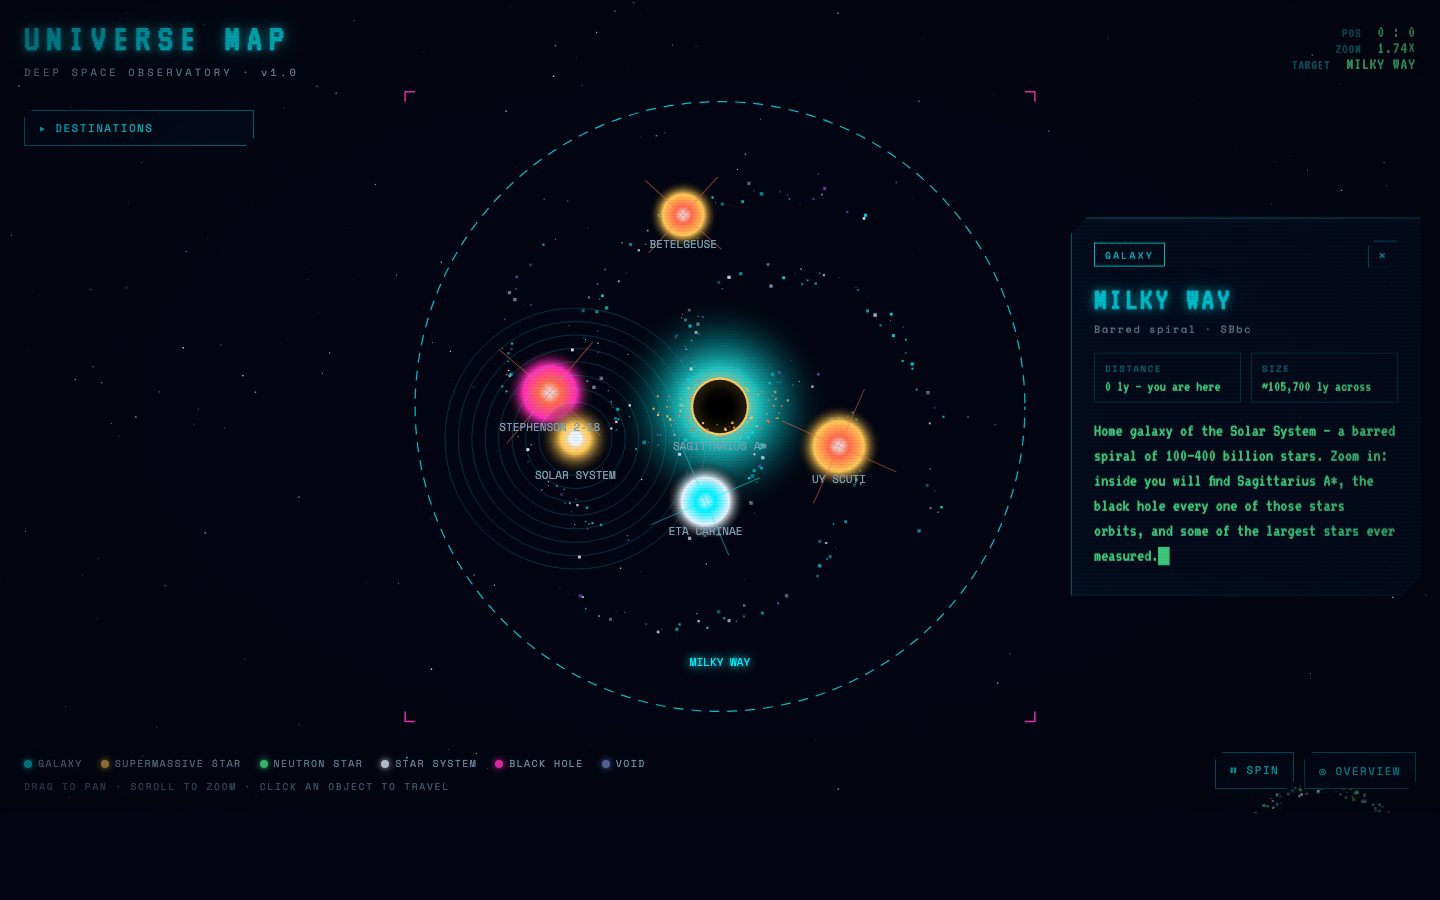
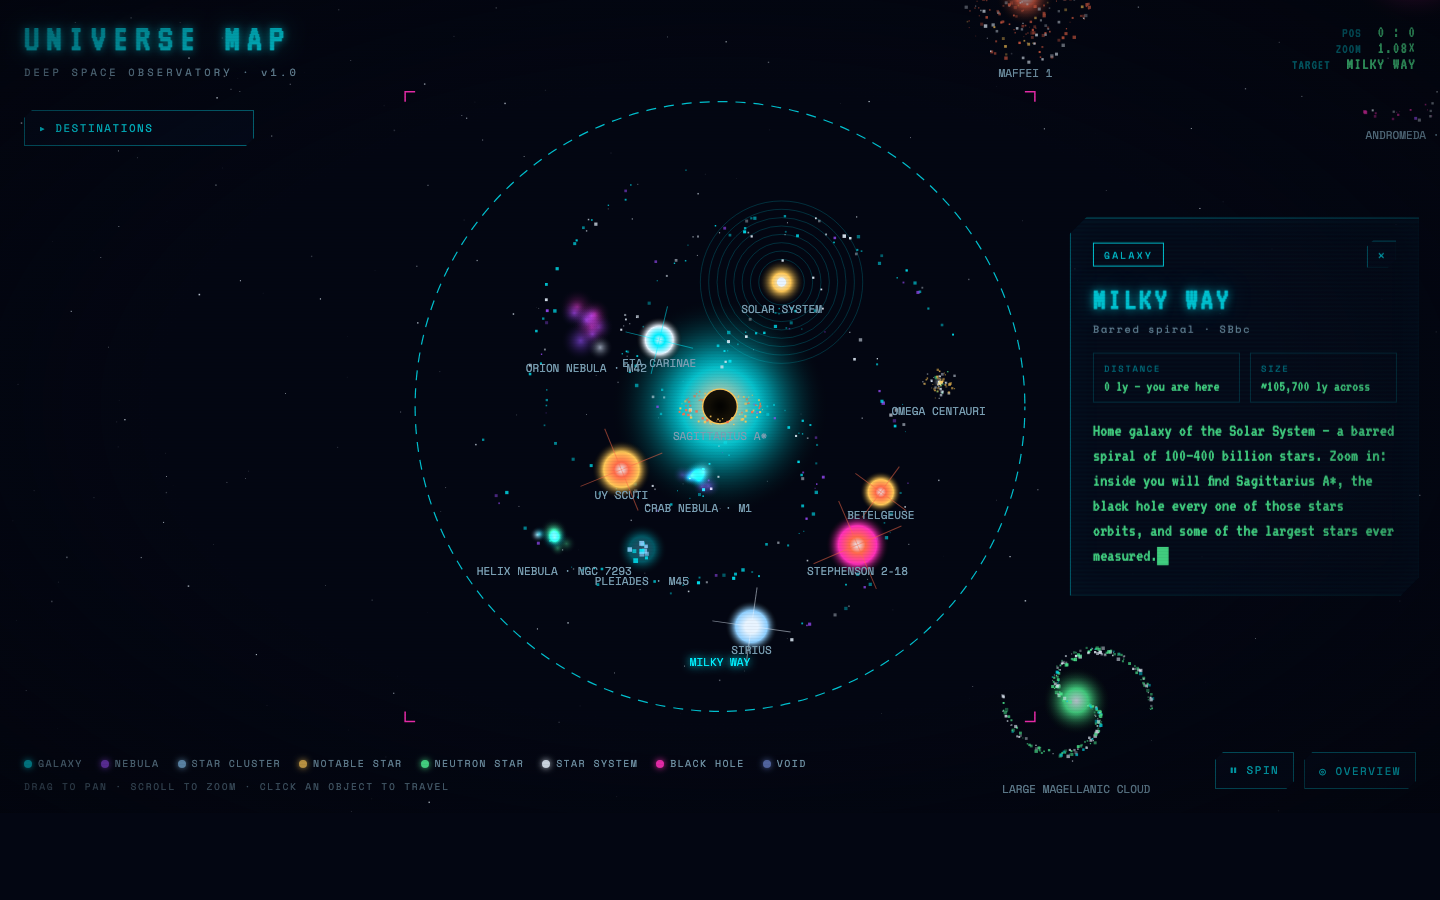
Expand the Milky Way and add Sirius
The Milky Way's interior had grown to 11 objects packed into radius
140, with clearances as tight as 9.5 units between neighbors
(Eta Carinae vs Orion Nebula) and two objects (Pleiades, Omega
Centauri) actually clipping the Solar System's outer orbit ring.

- Galaxy radius: 140 -> 225
- Every interior object's local.r scaled by 1.5x (angles unchanged,
  preserving relative layout), then Omega Centauri and Helix Nebula
  nudged in slightly to stay contained within the new radius
- Result: tightest clearance anywhere is now 30.3 units, solar-ring
  clearance is 37+ units everywhere, and the galaxy still sits 131+
  units clear of its nearest neighbor (the LMC) — no other galaxy
  needed to move

Also:
- Added Sirius — the brightest star in Earth's night sky — as a new
  interior object, with its white dwarf companion (Sirius B)
  mentioned in its description rather than modeled separately
- Renamed the generic "SUPERMASSIVE STAR" badge/legend label to
  "NOTABLE STAR": Sirius is bright only because it's close, not
  because it's massive, so the old label would have misdescribed it
  (and every other star sharing that badge)
- Pleiades: reordered its palette so ice-blue/cyan make up ~86% of
  its stars instead of ~55%, and strengthened its reflection-nebula
  haze (bigger, two-stop gradient, higher alpha) so it actually reads
  as blue like the real cluster, not washed out white

Verified in-browser: 54/54 objects valid (unique ids, zero orphan
[…]

diff --git a/js/data.js b/js/data.js
@@ -21,7 +21,7 @@ const galaxiesData = {
     {
       id: 'milky-way', name: 'MILKY WAY', type: 'galaxy',
       class: 'Barred spiral · SBbc',
-      x: 0, y: 0, radius: 140, arms: 4,
+      x: 0, y: 0, radius: 225, arms: 4,
       palette: ['--neon-cyan', '--star-white', '--neon-purple'],
       spinSpeed: 0.00010,
       distance: '0 ly — you are here',
@@ -273,9 +273,9 @@ const galaxiesData = {
     {
       id: 'pleiades', name: 'PLEIADES · M45', type: 'cluster',
       class: 'Open cluster · "Seven Sisters"',
-      parent: 'milky-way', local: { r: 100, a: 0.6 }, radius: 18,
+      parent: 'milky-way', local: { r: 150, a: 0.6 }, radius: 18,
       nebulosity: true,
-      palette: ['--ice-blue', '--star-white', '--neon-cyan'],
+      palette: ['--ice-blue', '--neon-cyan', '--star-white'],
       spinSpeed: 0.0002,
       distance: '~444 ly',
       size: '~8 ly across (core)',
@@ -284,7 +284,7 @@ const galaxiesData = {
     {
       id: 'omega-centauri', name: 'OMEGA CENTAURI', type: 'cluster',
       class: 'Globular cluster',
-      parent: 'milky-way', local: { r: 135, a: 4.7 }, radius: 16,
+      parent: 'milky-way', local: { r: 203, a: 4.7 }, radius: 16,
       globular: true,
       palette: ['--golden-yellow', '--star-white', '--terminal-green'],
       spinSpeed: 0.0001,
@@ -297,7 +297,7 @@ const galaxiesData = {
     {
       id: 'uy-scuti', name: 'UY SCUTI', type: 'star',
       class: 'Red supergiant · M4Ia',
-      parent: 'milky-way', local: { r: 72, a: 1.1 }, radius: 12,
+      parent: 'milky-way', local: { r: 108, a: 1.1 }, radius: 12,
       palette: ['--star-red', '--golden-yellow'],
       spinSpeed: 0.0004,
       distance: '~5,900 ly',
@@ -307,7 +307,7 @@ const galaxiesData = {
     {
       id: 'stephenson-2-18', name: 'STEPHENSON 2-18', type: 'star',
       class: 'Red supergiant · M6',
-      parent: 'milky-way', local: { r: 120, a: 5.6 }, radius: 13,
+      parent: 'milky-way', local: { r: 180, a: 5.6 }, radius: 13,
       palette: ['--star-red', '--cyber-pink'],
       spinSpeed: 0.0003,
       distance: '~18,900 ly',
@@ -317,7 +317,7 @@ const galaxiesData = {
     {
       id: 'betelgeuse', name: 'BETELGEUSE', type: 'star',
       class: 'Red supergiant · M1-M2Ia',
-      parent: 'milky-way', local: { r: 112, a: 5.3 }, radius: 10,
+      parent: 'milky-way', local: { r: 168, a: 5.3 }, radius: 10,
       palette: ['--star-red', '--golden-yellow'],
       spinSpeed: 0.0005,
       distance: '~550 ly',
@@ -327,7 +327,7 @@ const galaxiesData = {
     {
       id: 'eta-carinae', name: 'ETA CARINAE', type: 'star',
       class: 'Luminous blue variable binary',
-      parent: 'milky-way', local: { r: 55, a: 2.5 }, radius: 10,
+      parent: 'milky-way', local: { r: 83, a: 2.5 }, radius: 10,
       palette: ['--neon-cyan', '--star-white'],
       spinSpeed: 0.0006,
       distance: '~7,500 ly',
@@ -343,6 +343,16 @@ const galaxiesData = {
       distance: '~163,000 ly (LMC)',
       size: '~196 solar masses',
       desc: 'The most massive and one of the most luminous stars known — nearly 5 million times brighter than the Sun. It burns so fiercely that it sheds an Earth’s mass of material every month in a ferocious stellar wind.'
+    },
+    {
+      id: 'sirius', name: 'SIRIUS', type: 'star',
+      class: 'A-type main sequence + white dwarf binary',
+      parent: 'milky-way', local: { r: 205, a: 6.24 }, radius: 11,
+      palette: ['--star-white', '--ice-blue'],
+      spinSpeed: 0.0007,
+      distance: '~8.6 ly',
+      size: '~1.7 solar masses (Sirius A)',
+      desc: 'The brightest star in Earth\'s night sky — not because it\'s especially powerful, but because it\'s one of our nearest neighbors. It has a hidden companion, Sirius B: the first white dwarf ever discovered, a star\'s entire mass crushed into a sphere the size of Earth, the two locked in a 50-year orbital dance.'
     },
 
     /* ══ NEUTRON STARS (city-sized cores left behind by supernovae) ══ */
@@ -381,7 +391,7 @@ const galaxiesData = {
     {
       id: 'solar-system', name: 'SOLAR SYSTEM', type: 'system',
       class: 'Star system · G2V + 8 planets',
-      parent: 'milky-way', local: { r: 85, a: 3.7 }, radius: 14,
+      parent: 'milky-way', local: { r: 128, a: 3.7 }, radius: 14,
       palette: ['--golden-yellow', '--star-white', '--neon-cyan'],
       spinSpeed: 0.0003,
       distance: '0 ly — home',
@@ -393,7 +403,7 @@ const galaxiesData = {
     {
       id: 'orion-nebula', name: 'ORION NEBULA · M42', type: 'nebula',
       class: 'Diffuse emission nebula · stellar nursery',
-      parent: 'milky-way', local: { r: 95, a: 2.2 }, radius: 26,
+      parent: 'milky-way', local: { r: 143, a: 2.2 }, radius: 26,
       palette: ['--cyber-pink', '--neon-purple', '--star-white'],
       spinSpeed: 0.00006,
       distance: '~1,344 ly',
@@ -403,7 +413,7 @@ const galaxiesData = {
     {
       id: 'crab-nebula', name: 'CRAB NEBULA · M1', type: 'nebula',
       class: 'Supernova remnant',
-      parent: 'milky-way', local: { r: 45, a: 0.4 }, radius: 18,
+      parent: 'milky-way', local: { r: 68, a: 0.4 }, radius: 18,
       palette: ['--neon-cyan', '--neon-purple', '--star-white'],
       spinSpeed: 0.00007,
       distance: '~6,500 ly',
@@ -413,7 +423,7 @@ const galaxiesData = {
     {
       id: 'helix-nebula', name: 'HELIX NEBULA · NGC 7293', type: 'nebula',
       class: 'Planetary nebula · "Eye of God"',
-      parent: 'milky-way', local: { r: 130, a: 1.0 }, radius: 20,
+      parent: 'milky-way', local: { r: 195, a: 1.0 }, radius: 20,
       palette: ['--terminal-green', '--neon-cyan', '--star-white'],
       spinSpeed: 0.00005,
       distance: '~650 ly',

diff --git a/js/main.js b/js/main.js
@@ -338,13 +338,15 @@ function drawCluster(o, t) {
   const rot = o.angle + mapRotation;
 
   if (data.nebulosity) {
-    const haze = ctx.createRadialGradient(sc.x, sc.y, 0, sc.x, sc.y, Math.max(data.radius * z, 6));
+    const hazeR = Math.max(data.radius * 1.3 * z, 6);
+    const haze = ctx.createRadialGradient(sc.x, sc.y, 0, sc.x, sc.y, hazeR);
     haze.addColorStop(0, colors[0]);
+    haze.addColorStop(0.5, colors[1] || colors[0]);
     haze.addColorStop(1, 'rgba(0,0,0,0)');
-    ctx.globalAlpha = 0.22 * va;
+    ctx.globalAlpha = 0.34 * va;
     ctx.fillStyle = haze;
     ctx.beginPath();
-    ctx.arc(sc.x, sc.y, Math.max(data.radius * z, 6), 0, Math.PI * 2);
+    ctx.arc(sc.x, sc.y, hazeR, 0, Math.PI * 2);
     ctx.fill();
   }
 
@@ -804,7 +806,7 @@ const TYPE_LABEL = {
   galaxy: 'GALAXY',
   nebula: 'NEBULA',
   cluster: 'STAR CLUSTER',
-  star: 'SUPERMASSIVE STAR',
+  star: 'NOTABLE STAR',
   neutron: 'NEUTRON STAR',
   system: 'STAR SYSTEM',
   blackhole: 'BLACK HOLE',

diff --git a/index.html b/index.html
@@ -49,7 +49,7 @@
       <li><span class="dot dot-galaxy"></span>GALAXY</li>
       <li><span class="dot dot-nebula"></span>NEBULA</li>
       <li><span class="dot dot-cluster"></span>STAR CLUSTER</li>
-      <li><span class="dot dot-star"></span>SUPERMASSIVE STAR</li>
+      <li><span class="dot dot-star"></span>NOTABLE STAR</li>
       <li><span class="dot dot-neutron"></span>NEUTRON STAR</li>
       <li><span class="dot dot-system"></span>STAR SYSTEM</li>
       <li><span class="dot dot-blackhole"></span>BLACK HOLE</li>

diff --git a/README.md b/README.md
@@ -16,20 +16,22 @@ Voidarium is a zero-dependency universe map rendered entirely on a single `<canv
 
 ## ✦ What's inside
 
-**53 real astronomical objects across eight classes:**
+**54 real astronomical objects across eight classes:**
 
 | Class | Objects |
 |---|---|
 | 🌀 **Galaxies** (25) | Milky Way, Andromeda, Triangulum, Whirlpool, Sombrero, Pinwheel, Messier 87, Large Magellanic Cloud, Centaurus A, Cartwheel, Cigar Galaxy (M82), Topsy Turvy (NGC 1313), Sculptor Galaxy (NGC 253), Phoenix Cluster Galaxy, TON 618 Host Galaxy, IC 1101, Messier 60, Maffei 1, Cygnus A, NGC 1300, NGC 3923, Antennae Galaxies, NGC 1569, Seyfert Galaxy (M77), Holm 15A |
 | 🟣 **Nebulae** (4) | Orion Nebula (M42), Crab Nebula (M1), Helix Nebula (NGC 7293), Tarantula Nebula (30 Doradus) |
 | 🔵 **Star clusters** (2) | Pleiades (M45), Omega Centauri |
-| ⭐ **Supermassive stars** (5) | UY Scuti, Stephenson 2-18, Betelgeuse, Eta Carinae, R136a1 |
+| ⭐ **Notable stars** (6) | UY Scuti, Stephenson 2-18, Betelgeuse, Eta Carinae, R136a1, Sirius |
 | 🟢 **Neutron stars** (3) | M82 X-2, NGC 1313 X-2, NGC 253 Magnetar |
 | 🪐 **Star systems** (1) | The Solar System — the Sun and its 8 planets, orbiting inside the Milky Way |
 | ⚫ **Black holes** (10) | Sagittarius A*, M87*, M31*, M104*, M60*, Cygnus A*, M77*, Holm 15A*, TON 618, Phoenix A |
 | 🕳 **Cosmic voids** (3) | Boötes Void, Local Void, Eridanus Supervoid |
 
 **Galaxies have interiors.** Stars, nebulae, star clusters, neutron stars, black holes, and even our own Solar System live *inside* their real host galaxies — Sagittarius A* anchors the Milky Way, R136a1 and the Tarantula Nebula burn in the Large Magellanic Cloud, M87* hides in Messier 87, and the ultraluminous pulsar M82 X-2 spins inside the starburst Cigar Galaxy. TON 618 and Phoenix A — previously floating alone in deep space — now sit inside their real host galaxies too. Zoom into a galaxy and its residents fade into view, orbiting along with the galaxy's spin. Voids stay out in deep space, because that's what voids are: the enormous empty gaps *between* galaxies.
+
+**The Milky Way got roomier.** With a dozen objects now sharing its interior — including Sirius, the brightest star in Earth's night sky, and its hidden white-dwarf companion — the galaxy's radius grew and every resident was respaced so nothing crowds its neighbors.
 
 **A full gallery of galaxy varieties**, all reusing the same particle-based renderer with different shape flags: elliptical radio galaxy (Cygnus A, whose black hole may have a fainter companion caught mid-merger), barred spiral (NGC 1300), elliptical shell galaxy (NGC 3923 — concentric rings of stars still settling after a merger), colliding spirals (the Antennae Galaxies), dwarf starburst (NGC 1569), Seyfert galaxy (M77, the namesake of the entire active-galaxy class), and Type-cD galaxy (Holm 15A, holder of the largest known galactic core, anchored by a ~40-billion-solar-mass black hole).
 